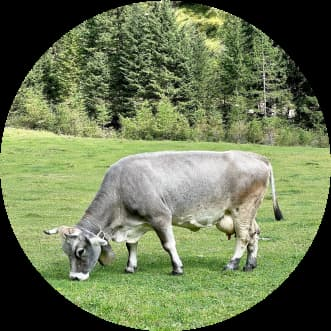
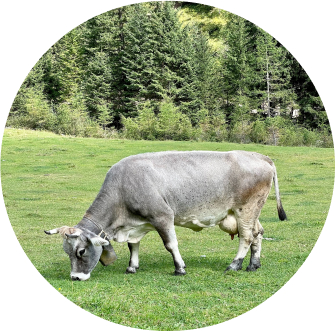
Fix problems

diff --git a/src/sass/layouts/_about.scss b/src/sass/layouts/_about.scss
@@ -1,6 +1,23 @@
+.section-about {
+    background-color: var(--primary-background-color);
+}
+.container-about {
+    padding-left: 20px;
+    padding-right: 20px;
+
+    @media screen and (min-width: 768px) {
+        padding-left: 33px;
+            padding-right: 33px;
+    }
+
+            @media screen and (min-width: 1200px){
+                padding-left: 18px;
+            padding-right: 18px;
+            }
+}
 
 .about {
-    background-color: var(--primary-background-color);
+    // background-color: var(--primary-background-color);
     padding-top: 60px;
 }
 
@@ -54,24 +71,34 @@
     }
 
     .technology {
-        display: block;
+        @media screen and (max-width: 767px) {
+          display: flex;
         justify-content: center;
         align-items: center;
-
-
+        flex-direction: column;  
+        }
+        
         @media screen and (min-width: 768px) {
             display: flex;
-            padding-left: 33px;
+            justify-content: center;
+            align-items: center;
+            // padding-left: 33px;
+            // padding-right: 33px;
         }
 
         @media screen and (min-width: 1200px) {
             justify-content: flex-start;
-            padding: auto;
+            
             
         }
 
     }
     .technology__picture {
+
+        // position: relative;
+        // top:50%;
+        // left:50%;
+        // transform:translate(-50%, 0%);
         display: flex;
         justify-content: center;
         align-items: center;
@@ -84,19 +111,63 @@
 
         @media screen and (min-width: 768px) {
             margin-right: 32px;
-        
+            width: 330px;
+            height: 330px;
+            // top:70%;
+            // left: 20%;
+            // transform:translate(-50%, 0%);
            
         }
         @media screen and (min-width: 1200px) {
             margin-right: 100px;
+            width: 500px;
+            height: 500px;
+            // left: 20%;
+            // top: 70%;
+            // transform:translate(-50%, 0%);
         }
+    }   
+    .technology__pic {
+
+        transform: translateY(22px);
+
+        @media screen and (min-width: 768px) {
+            transform: translateY(26px);
+        }
+
+        @media screen and (min-width: 1200px) {
+            transform: translateY(39px);
+        }
+
+
+        // position: absolute;
+        // top: 22px;
+
+        // @media screen and (min-width: 768px) {
+        //     top: 26px;
+        // }
+
+        // @media screen and (min-width: 1200px) {
+        //     top: 39px;
+        // }
 
     }
   
-
         .technology__cow {
         box-shadow: 0px 4.48583px 16.8218px rgba(153, 114, 23, 0.25);
-        border-radius: 1038.58px;
+        border-radius: 1038.58px; 
+
+        @media screen and (min-width: 768px) {
+            width: 330px;
+            max-width: none;
+            border-radius: 1228.96px;
+        }
+
+        @media screen and (min-width: 1200px) {
+            width: 490px;
+            border-radius: 1852.2px;
+        }
+
         }
 
         .technology-info {
@@ -104,8 +175,8 @@
             flex-direction: column;
             justify-content: center;
             align-items: center;
-            padding-left: 50px;
-            padding-right: 50px;
+            // padding-left: 50px;
+            // padding-right: 50px;
 
             @media screen and (min-width: 768px) {
                 align-items: flex-start;

diff --git a/src/partials/about.html b/src/partials/about.html
@@ -1,5 +1,5 @@
 <section class="section section-about">
-    <div class="conainer">
+    <div class="conainer container-about">
         <div class="about">
            <p class="about__label">
             tradition and love 
@@ -9,7 +9,7 @@
         </h2>
             <div class="technology">
               <div class="technology__picture">
-                <picture >
+                <picture class="technology__pic" >
             <source media="(min-width: 1200px)" srcset="./images/cow-desktop.jpg 1x, ./images/cow-desktop@2x.jpg 2x" type="image/jpeg">
 
                       <source media="(min-width: 768px)" srcset="./images/cow-tablet.jpg  1x, ./images/cow-tablet@2x.jpg 2x" type="image/jpeg">
